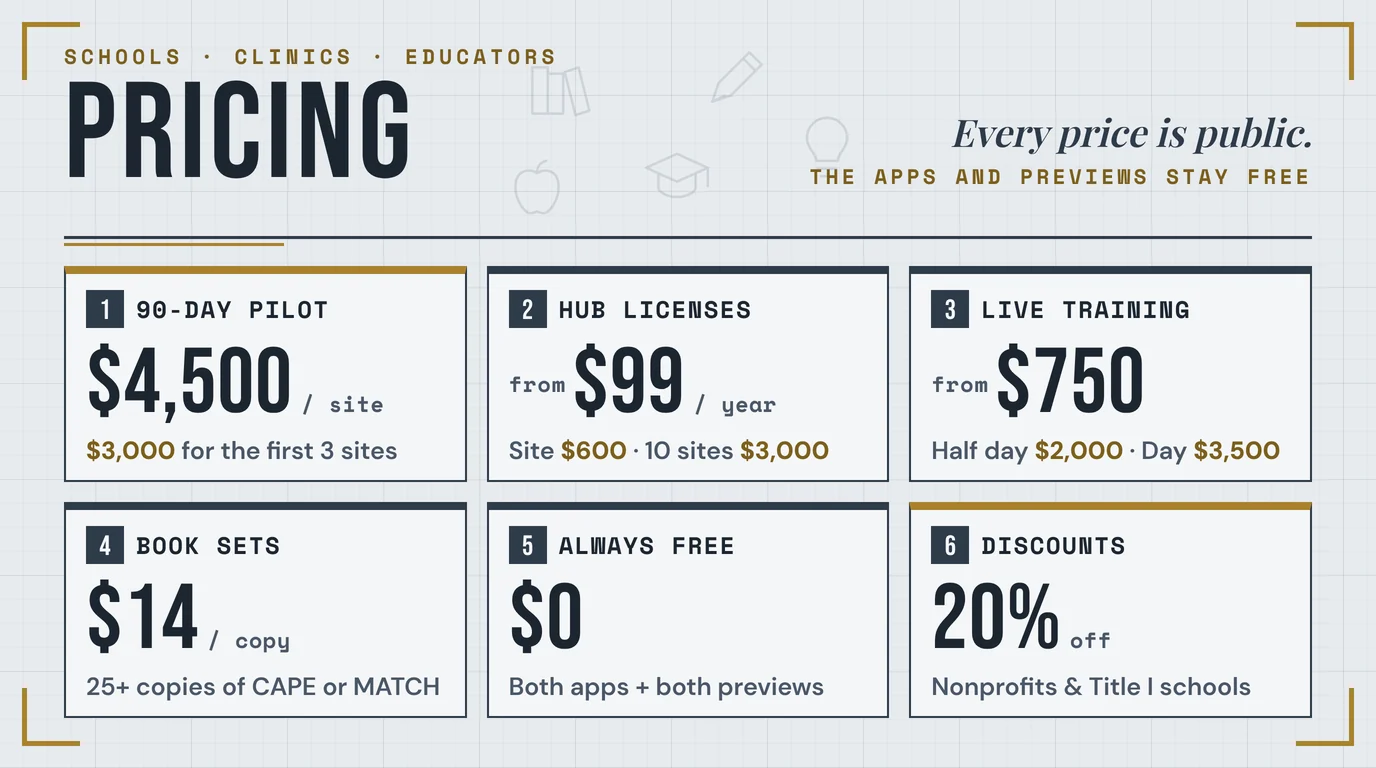
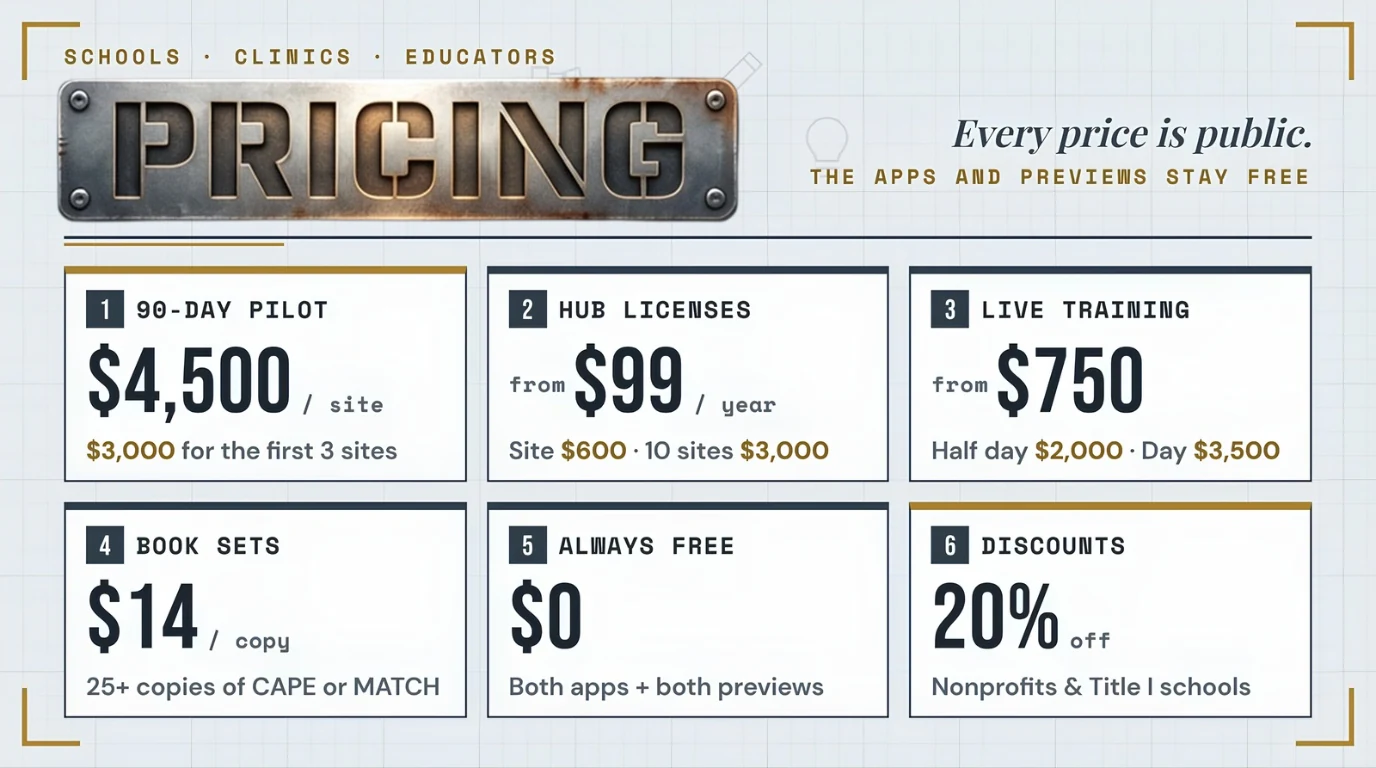
Use Chris's pricing hero with the metal PRICING plate
Claude-Session: https://claude.ai/code/session_012NLqgUUJaRfdArH3riyid5

Changed region(s): [[0.0312, 0.0938, 0.5625, 0.3125]]

diff --git a/pricing/index.html b/pricing/index.html
@@ -95,7 +95,7 @@
 
 <div class="page skin-dark skin-edu" data-route="/pricing" data-title="Pricing: licenses, pilots, training — The HARNESS Project" data-desc="Public prices for CAPE and HARNESS: Educators Hub licenses from $99 a year, 90-day pilots from $3,000, live training from $750. Apps and previews stay free.">
   <section class="section-tight" style="padding-top:40px">
-    <div class="wrap"><img src="/assets/img/pricing-hero.webp" width="1376" height="768" decoding="async" fetchpriority="high" alt="Pricing for schools, clinics and educators. Every price is public; the apps and previews stay free. 1, 90-day pilot: $4,500 per site, $3,000 for the first 3 sites. 2, Hub licenses: from $99 a year; site $600; 10 sites $3,000. 3, Live training: from $750; half day $2,000; day $3,500. 4, Book sets: $14 per copy for 25 or more copies of CAPE or MATCH. 5, Always free: both apps and both previews. 6, Discounts: 20% off for nonprofits and Title I schools." style="width:100%;height:auto;display:block;border:1px solid var(--line);border-radius:4px"></div>
+    <div class="wrap"><img src="/assets/img/pricing-hero.webp?v=2" width="1376" height="768" decoding="async" fetchpriority="high" alt="Pricing for schools, clinics and educators. Every price is public; the apps and previews stay free. 1, 90-day pilot: $4,500 per site, $3,000 for the first 3 sites. 2, Hub licenses: from $99 a year; site $600; 10 sites $3,000. 3, Live training: from $750; half day $2,000; day $3,500. 4, Book sets: $14 per copy for 25 or more copies of CAPE or MATCH. 5, Always free: both apps and both previews. 6, Discounts: 20% off for nonprofits and Title I schools." style="width:100%;height:auto;display:block;border:1px solid var(--line);border-radius:4px"></div>
     <div class="wrap pl-intro">
       <p class="pl-eyebrow">Pricing</p>
       <h1 class="h-dark">Prices for schools, clinics and educators</h1>
